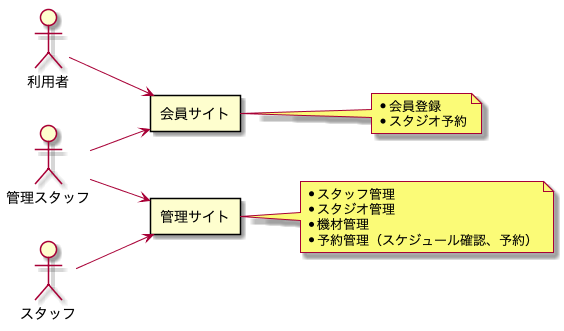
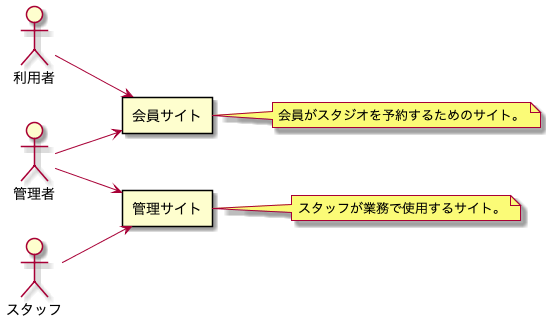
ユースケース図削除

Changed region(s): [[0.0, 0.3727, 0.9963, 0.9938], [0.0, 0.0, 1.0, 0.4348]]

diff --git a/README.md b/README.md
@@ -71,7 +71,7 @@
   - 管理者が利用料金の管理を行う。
 
 # 業務フロー/利用シーン
-- ユースケースを洗い出すために、ビジネスユースケースごとに業務フロー図、利用シーン図を作成する。
+- ビジネスユースケースごとに業務フロー図、利用シーン図を作成し、ユースケースを洗い出す。
 
 ## 会員管理
 ### BUC: 会員登録
@@ -117,36 +117,8 @@
 # サイト構成
 ![](./modeling/SiteStructure/SiteStructure.png)
 
-# ユースケース
-## 予約（ビジネスコンテキスト）
-### 会員登録
-![](./modeling/05_Usecase_会員登録/Usecase.png)
-
-### Web 予約
-![](./modeling/05_Usecase_Web予約/Usecase.png)
-
-### 電話予約
-![](./modeling/05_Usecase_電話予約/Usecase.png)
-
-### 店頭予約
-![](./modeling/05_Usecase_店頭予約/Usecase.png)
-
-## 設備管理（ビジネスコンテキスト）
-### スタッフ管理
-![](./modeling/05_Usecase_スタッフ管理/Usecase.png)
-
-### スタジオ管理
-![](./modeling/05_Usecase_スタジオ管理/Usecase.png)
-
-### 機材管理
-![](./modeling/05_Usecase_機材管理/Usecase.png)
-
-### 利用料金管理
-![](./modeling/05_Usecase_利用料金管理/Usecase.png)
-
 # 画面設計
-- 作るものをイメージしやすくするために画面のラフ画を作る。
-- ユースケースを満たすように作っていく。
+- 洗い出したユースケースを満たせるようなワイヤーフレームを作っていく。
 
 # ドメインモデル
 - ドメインモデル図とビジネスルールをまとめていく。
